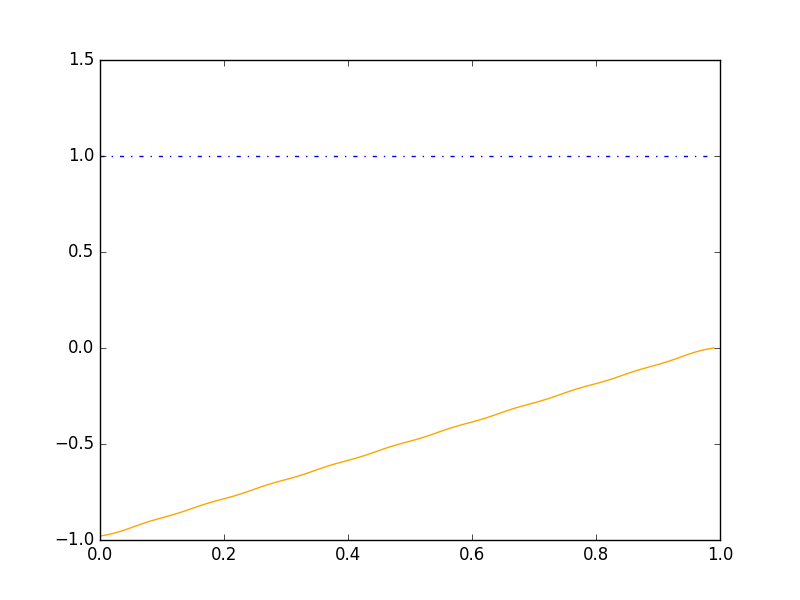
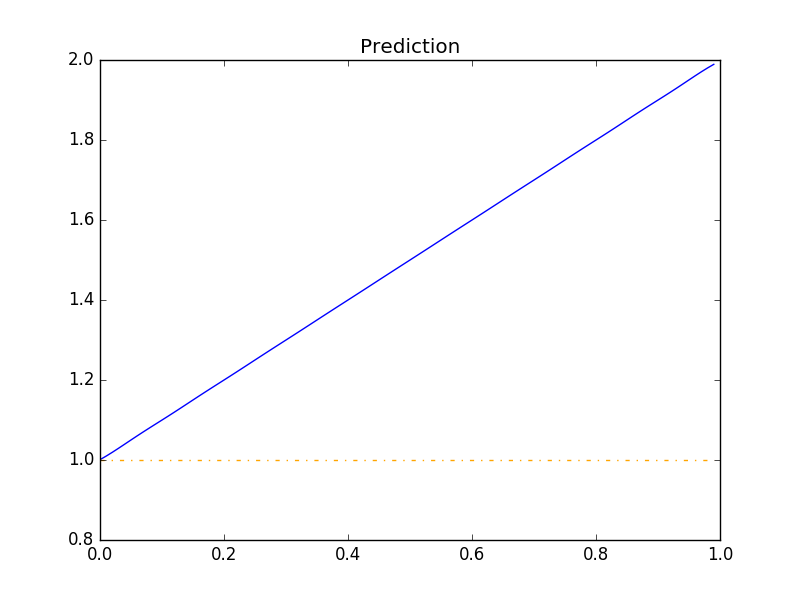
promp generalization working with context

diff --git a/promp_context/src/promp_context/promp_context.py b/promp_context/src/promp_context/promp_context.py
@@ -62,14 +62,15 @@ class ProMPContext(object):
         self.sigma_cw = None
 
 
-        self.nrTraj = 0
+        self.nr_traj = 0
 
         self.Y = np.empty((0, self.num_samples), float)
-        self.C = np.empty((0, self.num_basis), float)
+        self.C = np.empty((0, 1), float)
 
     def add_demonstration(self, demonstration):
 
         demonstration = np.array(demonstration).T
+        self.nr_traj += 1
 
         if len(demonstration) != self.num_variables:
             raise ValueError("The given demonstration has {} joints while num_joints={}".format(len(demonstration), self.num_variables))
@@ -80,53 +81,53 @@ class ProMPContext(object):
             interpolate = interp1d(np.linspace(0, 1, len(demonstration[variable_idx, :])), demonstration[variable_idx, :], kind='cubic')
             stretched_demo = interpolate(self.x)
 
+            # if we have an output variable
             if variable_idx in self.outputs_ix:
+                
+                # stack Y matrix vertically with this variable
                 self.Y = np.vstack((self.Y, stretched_demo))
 
-                self.nrTraj = len(self.Y)
+                # calculate weights (size NxM, N=num_basis, M=num_demonstrations)
                 self.W = np.dot(np.linalg.inv(np.dot(self.Phi, self.Phi.T)), np.dot(self.Phi, self.Y.T)).T  # weights for each trajectory
-                print("W = " + str(self.W))
 
-                self.mean_w = np.mean(self.W, 0)                                                             # mean of weights
-                print("mean_w = " + str(self.mean_w))
-                # w1 = np.array(map(lambda x: x - self.meanW.T, self.W))
-                self.sigma_ww = np.var(self.W, 0)
-                print("sigma_ww = " + str(self.sigma_ww))
-                # self.sigma_w = np.dot(w1.T, w1)/self.nrTraj                                                  # covariance of weights
-                # self.sigmaSignal = np.sum(np.sum((np.dot(self.W, self.Phi) - self.Y) ** 2)) / (self.nrTraj * self.num_samples)
-            
             # if variable is a context
             elif variable_idx in self.contexts_ix:
                 ## add the data to the context matrix
 
                 # stack only the context values up until the amount of basis functions
-                self.C = np.vstack((self.C, stretched_demo[:self.num_basis]))
-                print("C = " + str(self.C))
+                self.C = np.vstack((self.C, stretched_demo[0]))
 
-                self.mean_c = np.mean(self.C, 0)      
-                print("mean_c = " + str(self.mean_c))
+        if self.nr_traj > 1:
+            # we can only calculate covariance if we have 2 or more demonstrations
+            self.sigma_total = np.cov(self.W, self.C, rowvar=0)
 
-                self.sigma_cc = np.var(self.C, 0)
-                print("sigma_cc = " + str(self.sigma_cc))
-                # print(self.C)
-                # print(self.sigma_cc)
+            self.sigma_ww = self.sigma_total[:self.num_basis, :self.num_basis]
+            self.sigma_cw = self.sigma_total[self.num_basis:, :self.num_basis]
+            self.sigma_wc = self.sigma_total[:self.num_basis:, self.num_basis:]
+            
+            self.sigma_cc = self.sigma_total[self.num_basis:, self.num_basis:]
+            
+            self.mean_w = np.mean(self.W, 0)                                                            
+            self.mean_c = np.mean(self.C, 0)
 
-            if self.C.shape[0] != 0 and self.W.shape[0] != 0:
-                self.sigma_wc = np.cov(self.W, self.C, rowvar=0)
-                self.sigma_cw = np.cov(self.C, self.W, rowvar=0)
+            print("sigma_cc = " + str(self.sigma_cc))
+            print("sigma_ww = " + str(self.sigma_ww))
+            print("sigma_wc = " + str(self.sigma_wc))
+            print("sigma_cw = " + str(self.sigma_cw))
+            print("mean_w = " + str(self.mean_w))
+            print("mean_c = " + str(self.mean_c))
+            
+            self.mean_total = np.append(self.mean_w, self.mean_c)
 
-                print("sigma_wc = " + str(self.sigma_wc))
-                print("sigma_cw = " + str(self.sigma_cw))
+            print("sigma_total = " + str(self.sigma_total))
 
-        # stack mean matrix
-        self.mu_total = np.vstack((self.mean_w, self.mean_c))
+        else:
+            self.mean_w = self.W[0]
+            self.mean_c = self.C[0]
+
+            self.mean_total = np.append(self.mean_w, self.mean_c)
+
         
-        print(np.hstack((self.sigma_cc, self.sigma_wc)))
-
-
-        # stack covariance matrix
-        self.sigma_total = np.vstack((np.hstack((self.sigma_cc, self.sigma_wc)), np.hstack((self.sigma_cw, self.sigma_ww))))
-
     def generate_trajectory(self, context):
 
         # mu_w|c = mu_w + Sigma_wc * Sigma_cc^-1 * (c - mu_c)
@@ -137,169 +138,24 @@ class ProMPContext(object):
         p_w_given_c = np.random.multivariate_normal(mu_w_given_c, sigma_w_given_c)
 
         # mu_tau|c = Phi * mu_w|c
-        mu_traj_given_c = np.dot(self.Phi, mu_w_given_c)
+        mu_traj_given_c = np.dot(self.Phi.T, mu_w_given_c)
         
         # Sigma_tau|c = sigma^2 * I_TxT + Phi * Sigma_w|c * Phi^T
-        sigma_traj_given_c = np.dot(self.sigma ** 2, np.eye(self.num_samples)) + np.dot(np.dot(self.Phi, self.sigma_w_given_c), self.Phi.T)
+        sigma_traj_given_c = np.dot(self.sigma ** 2, np.eye(self.num_samples)) + np.dot(np.dot(self.Phi.T, sigma_w_given_c), self.Phi)
     
+        p_traj_given_c = np.random.multivariate_normal(mu_traj_given_c, sigma_traj_given_c)
+
         return mu_traj_given_c
 
-    def get_bounds(self, t):
-        """
-        Return the bounds of all joints at time t
-        :param t: 0 <= t <= 1
-        :return: [(lower boundary joints 0, upper boundary joints 0), (lower boundary joint 1), upper)...]
-        """
-        return [joint.get_bounds(t) for joint in self.promps]
+    def plot_mean_variance(self, x=None, legend='promp', color=None):
+        plt.figure()
 
-    def get_means(self, t):
-        """
-        Return the mean of all joints at time t
-        :param t: 0 <= t <= 1
-        :return: [mean joint 1, mean joint 2, ...]
-        """
-        return [joint.get_mean(t) for joint in self.promps]
-
-    def get_stds(self):
-        """
-        Return the standard deviation of all joints
-        :param t: 0 <= t <= 1
-        :return: [std joint 1, std joint 2, ...]
-        """
-        return [joint.get_std() for joint in self.promps]
-
-    def clear_viapoints(self):
-        for promp in self.promps:
-            promp.clear_viapoints()
-
-
-    def plot(self, x=None, joint_names=(), output_randomess=0.5):
-        """
-        Plot the means and variances of gaussians, requested viapoints as well as an output trajectory (dotted)
-        :param output_randomess: 0. to 1., -1 to disable output plotting
-        """
-        if output_randomess >= 0:
-            output = self.generate_trajectory(output_randomess).T
-
-        for promp_idx, promp in enumerate(self.promps):
-            color = self.colors[promp_idx % len(self.colors)]
-            joint_name = "Joint {}".format(promp_idx+1) if len(joint_names) == 0 else joint_names[promp_idx]
-            promp.plot(x, joint_name, color)
-            if output_randomess >= 0:
-                plt.plot(x, output[promp_idx], linestyle='--', label="Out {}".format(joint_name), color=color, lw=2)
-
-class ProMP(object):
-    """
-    Uni-dimensional probabilistic MP
-    """
-    def __init__(self, nrBasis=11, sigma=0.05, num_samples=100):
-        self.x = np.linspace(0, 1, num_samples)
-        self.nrSamples = len(self.x)
-        self.nrBasis = nrBasis
-        self.sigma = sigma
-        self.sigmaSignal = float('inf')  # Noise of signal (float)
-        self.C = np.arange(0,nrBasis)/(nrBasis-1.0)
-        self.Phi = np.exp(-.5 * (np.array(map(lambda x: x - self.C, np.tile(self.x, (self.nrBasis, 1)).T)).T ** 2 / (self.sigma ** 2)))
-        self.Phi /= sum(self.Phi)
-
-        self.viapoints = []
-        self.W = np.array([])
-        self.nrTraj = 0
-        self.meanW = None
-        self.sigmaW = None
-        self.Y = np.empty((0, self.nrSamples), float)
-
-    def add_demonstration(self, demonstration):
-        interpolate = interp1d(np.linspace(0, 1, len(demonstration)), demonstration, kind='cubic')
-        stretched_demo = interpolate(self.x)
-        self.Y = np.vstack((self.Y, stretched_demo))
-        self.nrTraj = len(self.Y)
-        self.W = np.dot(np.linalg.inv(np.dot(self.Phi, self.Phi.T)), np.dot(self.Phi, self.Y.T)).T  # weights for each trajectory
-        self.meanW = np.mean(self.W, 0)                                                             # mean of weights
-        w1 = np.array(map(lambda x: x - self.meanW.T, self.W))
-        self.sigmaW = np.dot(w1.T, w1)/self.nrTraj                                                  # covariance of weights
-        self.sigmaSignal = np.sum(np.sum((np.dot(self.W, self.Phi) - self.Y) ** 2)) / (self.nrTraj * self.nrSamples)
-
-    def get_bounds(self, t):
-        """
-        Return the bounds at time t
-        :param t: 0 <= t <= 1
-        :return: (lower boundary, upper boundary)
-        """
-        return self._get_bounds(int(self.num_points*t))
-
-    def get_mean(self, t):
-        """
-        Return the mean at time t
-        :param t: 0 <= t <= 1
-        :return: scalar
-        """
-        return self._get_mean(int(self.num_points*t))
-
-    def get_std(self):
-        std = 2 * np.sqrt(np.diag(np.dot(self.Phi.T, np.dot(self.sigmaW, self.Phi))))
-        return std
-
-    def _get_mean(self, t_index):
-        mean = np.dot(self.Phi.T, self.meanW)
-        return mean[t_index]
-
-    def _get_bounds(self, t_index):
-        mean = self._get_mean(t_index)
-        std = self.get_std()
-        return mean - std, mean + std
-
-    def clear_viapoints(self):
-        del self.viapoints[:]
-
-    def add_viapoint(self, t, obsy, sigmay=1e-6):
-        """
-        Add a viapoint to the trajectory
-        Observations and corresponding basis activations
-        :param t: timestamp of viapoint
-        :param obsy: observed value at time t
-        :param sigmay: observation variance (constraint strength)
-        :return:
-        """
-        self.viapoints.append({"t": t, "obsy": obsy, "sigmay": sigmay})
-
-    def set_goal(self, obsy, sigmay=1e-6):
-        self.add_viapoint(1., obsy, sigmay)
-
-    def set_start(self, obsy, sigmay=1e-6):
-        self.add_viapoint(0., obsy, sigmay)
-
-    # def generate_trajectory(self, randomness=1e-10):
-    #     """
-    #     Outputs a trajectory
-    #     :param randomness: float between 0. (output will be the mean of gaussians) and 1. (fully randomized inside the variance)
-    #     :return: a 1-D vector of the generated points
-    #     """
-    #     newMu = self.meanW
-    #     newSigma = self.sigmaW
-
-    #     for viapoint in self.viapoints:
-    #         PhiT = np.exp(-.5 * (np.array(map(lambda x: x - self.C, np.tile(viapoint['t'], (11, 1)).T)).T ** 2 / (self.sigma ** 2)))
-    #         PhiT = PhiT / sum(PhiT)  # basis functions at observed time points
-
-    #         # Conditioning
-    #         aux = viapoint['sigmay'] + np.dot(np.dot(PhiT.T, newSigma), PhiT)
-            
-            
-    #         newMu = newMu + np.dot(np.dot(newSigma, PhiT) * 1 / aux, (viapoint['obsy'] - np.dot(PhiT.T, newMu)))  # new weight mean conditioned on observations
-            
-            
-    #         newSigma = newSigma - np.dot(np.dot(newSigma, PhiT) * 1 / aux, np.dot(PhiT.T, newSigma))
-
-    #     sampW = np.random.multivariate_normal(newMu, randomness*newSigma, 1).T
-    #     return np.dot(self.Phi.T, sampW)
-
-    def plot(self, x=None, legend='promp', color=None):
-        mean = np.dot(self.Phi.T, self.meanW)
+        mean = np.dot(self.Phi.T, self.mean_w)
         x = self.x if x is None else x
         plt.plot(x, mean, color=color, label=legend)
-        std = 2*np.sqrt(np.diag(np.dot(self.Phi.T, np.dot(self.sigmaW, self.Phi))))
+        
+        # Sigma_tau = sigma^2 I_TxT + Phi * Sigma_w * Phi^T
+        # std = sqrt(diag(sigma_tau))
+        std = np.sqrt(np.diag(np.dot(self.sigma ** 2, np.eye(self.num_samples)) + np.dot(self.Phi.T, np.dot(self.sigma_ww, self.Phi))))
+        
         plt.fill_between(x, mean - std, mean + std, color=color, alpha=0.2)
-        for viapoint_id, viapoint in enumerate(self.viapoints):
-            x_index = x[int(round((len(x)-1)*viapoint['t'], 0))]
-            plt.plot(x_index, viapoint['obsy'], marker="o", markersize=10, label="Via {} {}".format(viapoint_id, legend), color=color)

diff --git a/promp_context/model_test.py b/promp_context/model_test.py
@@ -15,10 +15,10 @@ cmap = get_cmap(num_traj)
 sigma_noise=0.03
 x = np.arange(0,1,0.01)
 
-joint_names = ['output', 'context']
+joint_names = ['output1', 'context1', 'context2','context3']
 
 num_samples = len(x)
-pmp = ProMPContext(joint_names, num_samples=num_samples)
+pmp = ProMPContext(joint_names, num_samples=num_samples,num_basis=20)
 
 samples = []
 
@@ -100,14 +100,19 @@ goal = np.zeros(len(joint_names))
 context = 1.0
 pred = pmp.generate_trajectory(context)
 
+print(pred)
 plt.figure()
-plt.plot(x, [y[1] for y in pred], '-.', color='blue')    
-plt.plot(x, [y[0] for y in pred], color='orange')    
+plt.plot(x, [y for y in pred], color='blue')    
+plt.plot(x, np.ones(pred.shape) * context, '-.',  color='orange')    
+plt.title("Prediction")
 plt.savefig('pred.png')
 
 
-plt.figure()
-pmp.plot(x, output_randomess=-1)
-plt.savefig('mean_std.png')
+pmp.plot_mean_variance()
+plt.savefig('mean_variance.png')
 
-plt.show()
+# plt.figure()
+# pmp.plot(x, output_randomess=-1)
+# plt.savefig('mean_std.png')
+
+# plt.show()

diff --git a/contextual-promp/contextual_promp/contextual_promp.py b/contextual-promp/contextual_promp/contextual_promp.py
@@ -126,10 +126,10 @@ class ProMPContext(object):
         p_w_given_c = np.random.multivariate_normal(mu_w_given_c, sigma_w_given_c)
 
         # mu_tau|c = Phi * mu_w|c
-        mu_traj_given_c = np.dot(self.Phi[:self.num_basis, :self.num_points], mu_w_given_c)
+        mu_traj_given_c = np.dot(self.Phi, mu_w_given_c)
         
         # Sigma_tau|c = sigma^2 * I_TxT + Phi * Sigma_w|c * Phi^T
-        sigma_traj_given_c = np.dot(self.sigma ** 2, np.eye(self.num_points)) + np.dot(np.dot(self.Phi, sigma_w_given_c), self.Phi.T)
+        sigma_traj_given_c = np.dot(self.sigma ** 2, np.eye(self.num_samples)) + np.dot(np.dot(self.Phi, self.sigma_w_given_c), self.Phi.T)
     
         return mu_traj_given_c
 
